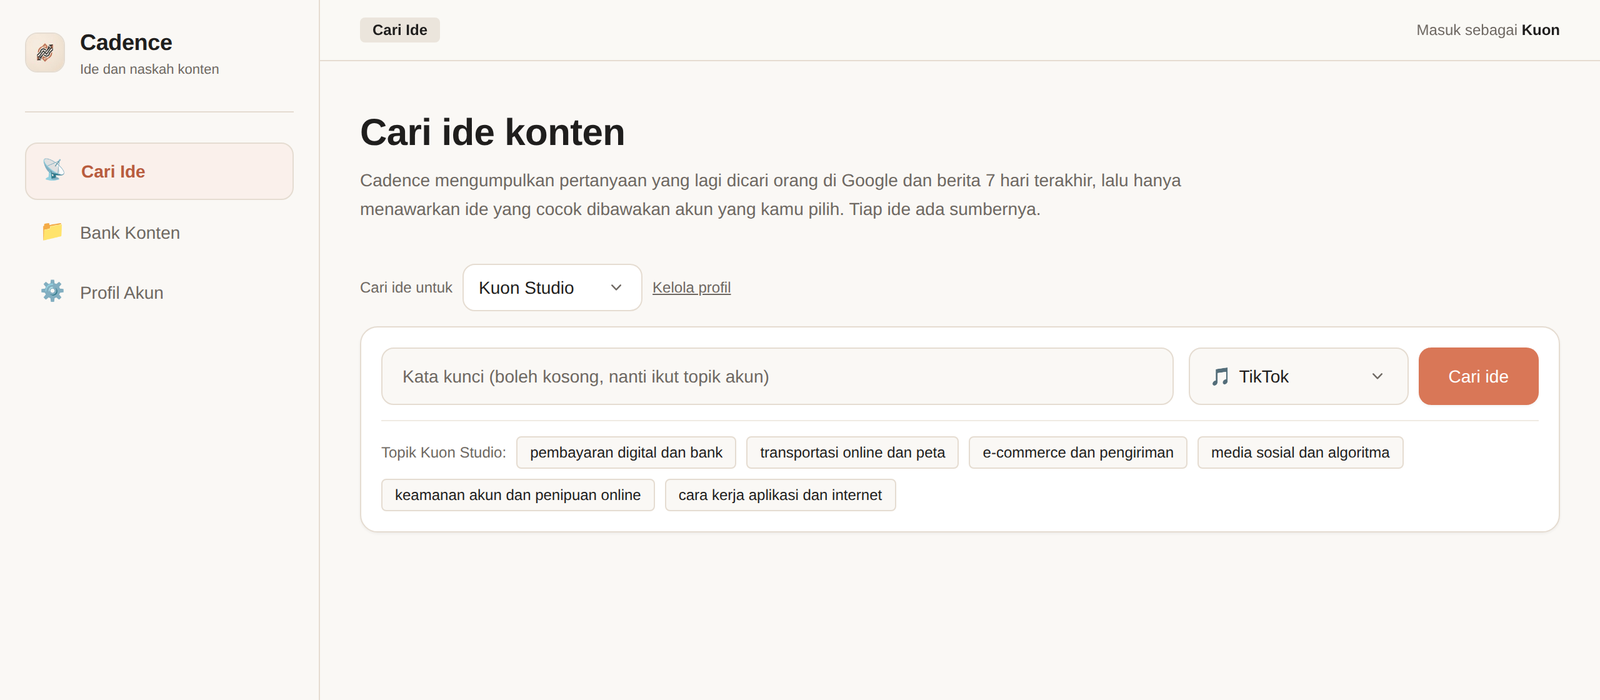
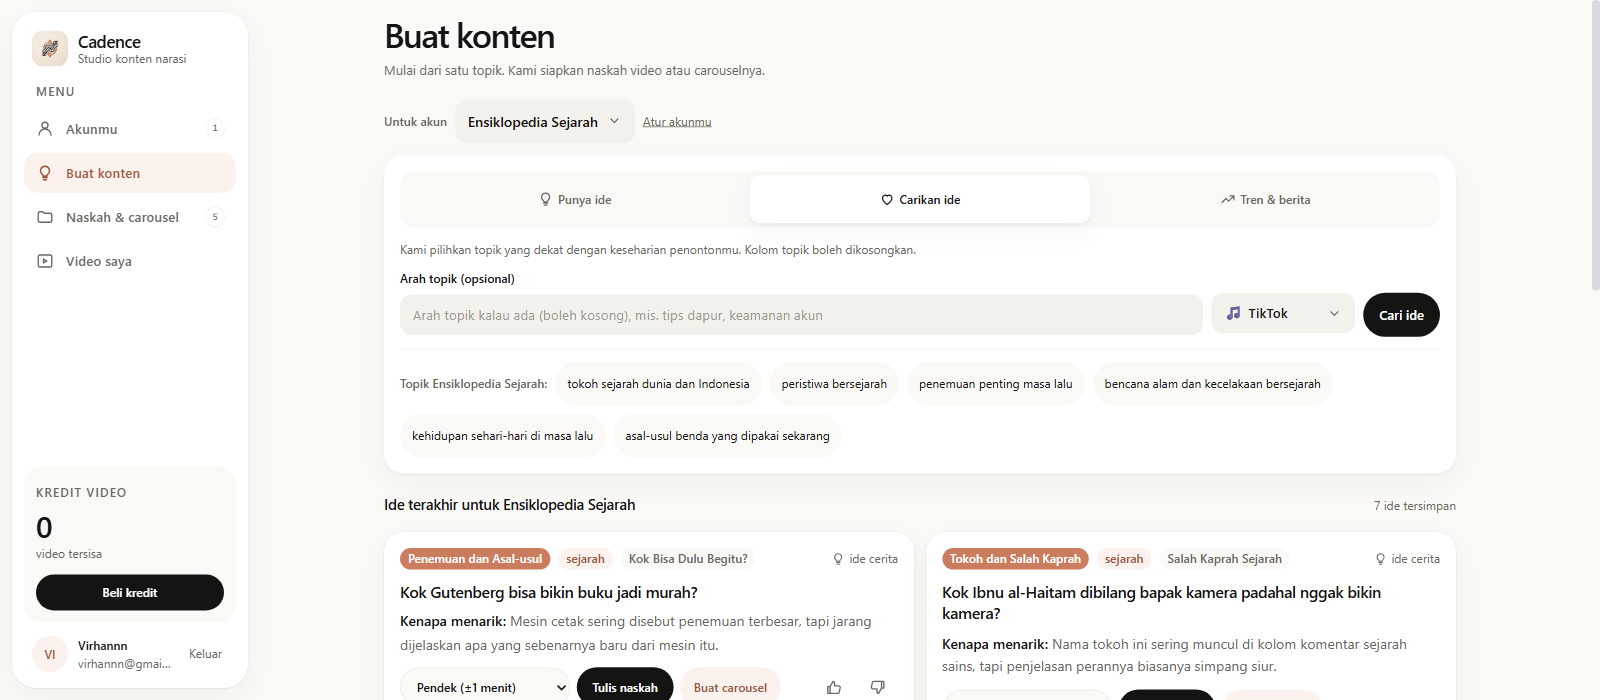
Work: refresh Cadence screenshot to current UI
Replace the pre-redesign idea page with the current warm-palette
workspace: Buat konten, Carikan ide tab, account topics, and recent ideas.

diff --git a/src/components/WorkSection.tsx b/src/components/WorkSection.tsx
@@ -32,7 +32,7 @@ const COPY = {
         accent: '#6a9bcc',
         tagline: 'Agent ide dan naskah konten untuk akun media sosial',
         img: '/cadence-ide.png',
-        alt: 'Halaman Cari ide di Cadence untuk profil Kuon Studio, dengan topik akun sebagai pilihan cepat',
+        alt: 'Halaman Buat konten di Cadence dengan tab Carikan ide, topik akun sebagai pilihan cepat, dan daftar ide terakhir',
         caption: '',
         imgClass: 'w-full',
         body: 'Cadence membaca apa yang sedang dicari orang dan berita terbaru, lalu menawarkan ide konten yang cocok dengan profil akunmu. Ide yang dipilih diubah jadi naskah per adegan, siap diproduksi.',
@@ -77,7 +77,7 @@ const COPY = {
         accent: '#6a9bcc',
         tagline: 'Content idea and script agent for social accounts',
         img: '/cadence-ide.png',
-        alt: 'Cadence idea search page for the Kuon Studio profile, with the account topics as quick picks',
+        alt: 'Cadence content page with the idea-search tab, account topics as quick picks, and the latest idea list',
         caption: '',
         imgClass: 'w-full',
         body: 'Cadence reads what people are searching for and recent news, then offers content ideas that fit your account profile. A chosen idea becomes a scene-by-scene script, ready for production.',
